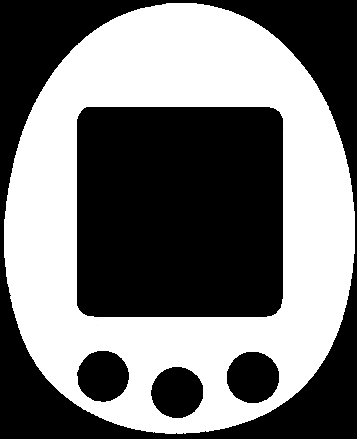
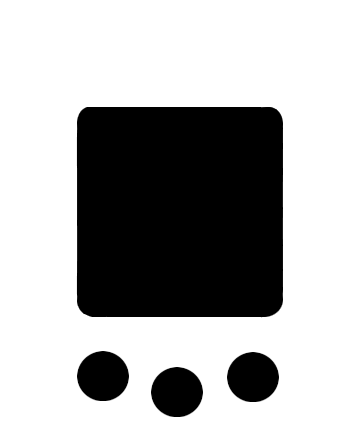
added the left and right buttons
i also made the picture smoother

diff --git a/template.html b/template.html
@@ -9,11 +9,13 @@
 		<script src="Sheep.js"></script>
 	</head>
 	<body style="background-color:black">
-		<div id="template" style="text-align:center">
-			<img src="tamagotchi_base.png" id="tama" usemap="buttons" align="middle">
+		<div style="text-align:center">
+			<img src="tamagotchi_base.png" id="tama" usemap="buttons">
 		</div>
 		<map name="buttons">
-			<area shape="circle" coords="170,390,30" onclick="dosomething()">
+			<area shape="circle" coords="104,375,27" onclick="dosomething()">
+			<area shape="circle" coords="177,392,27" onclick="dosomething()">
+			<area shape="circle" coords="252,376,27" onclick="dosomething()">
 		</map>
 	</body>
 </html>
